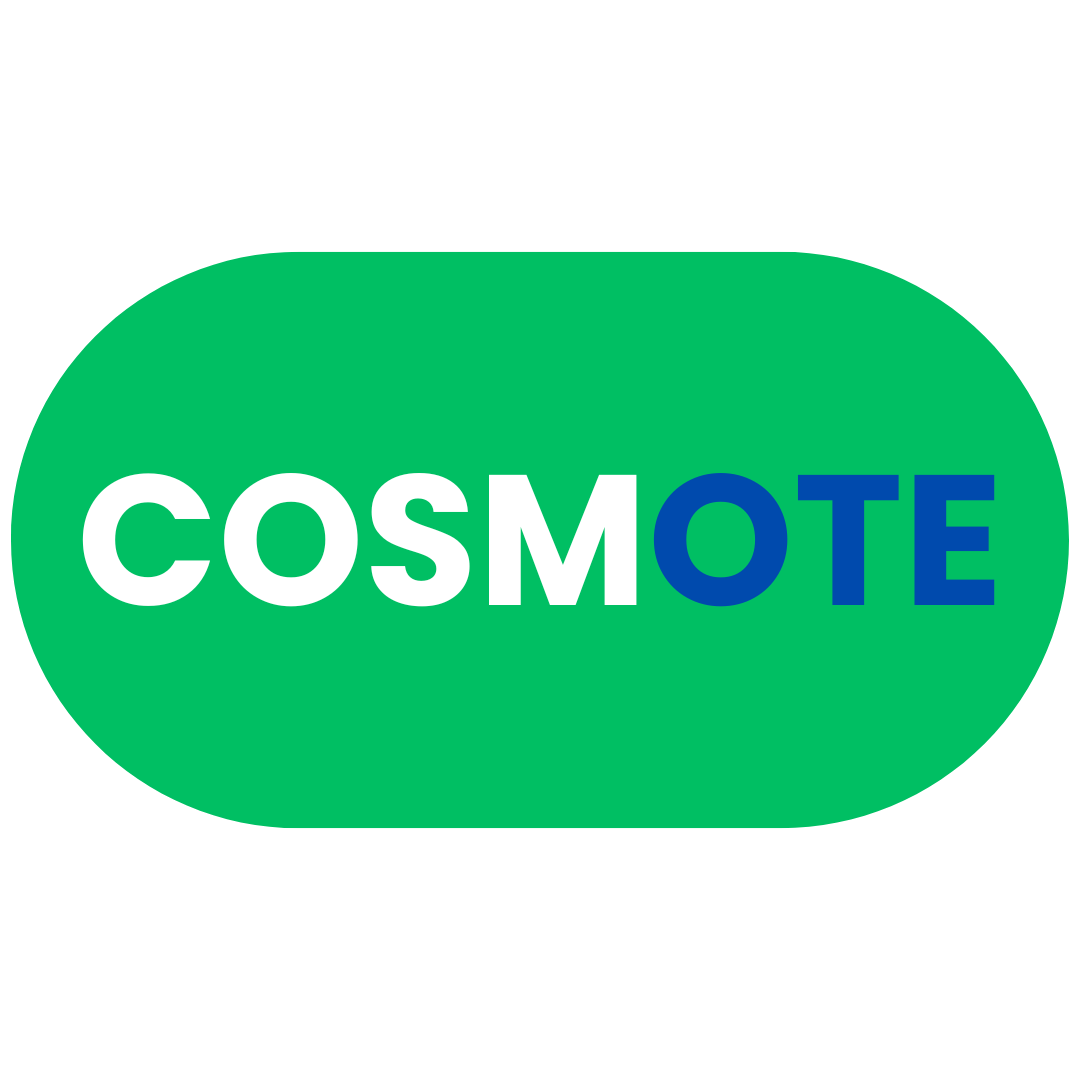
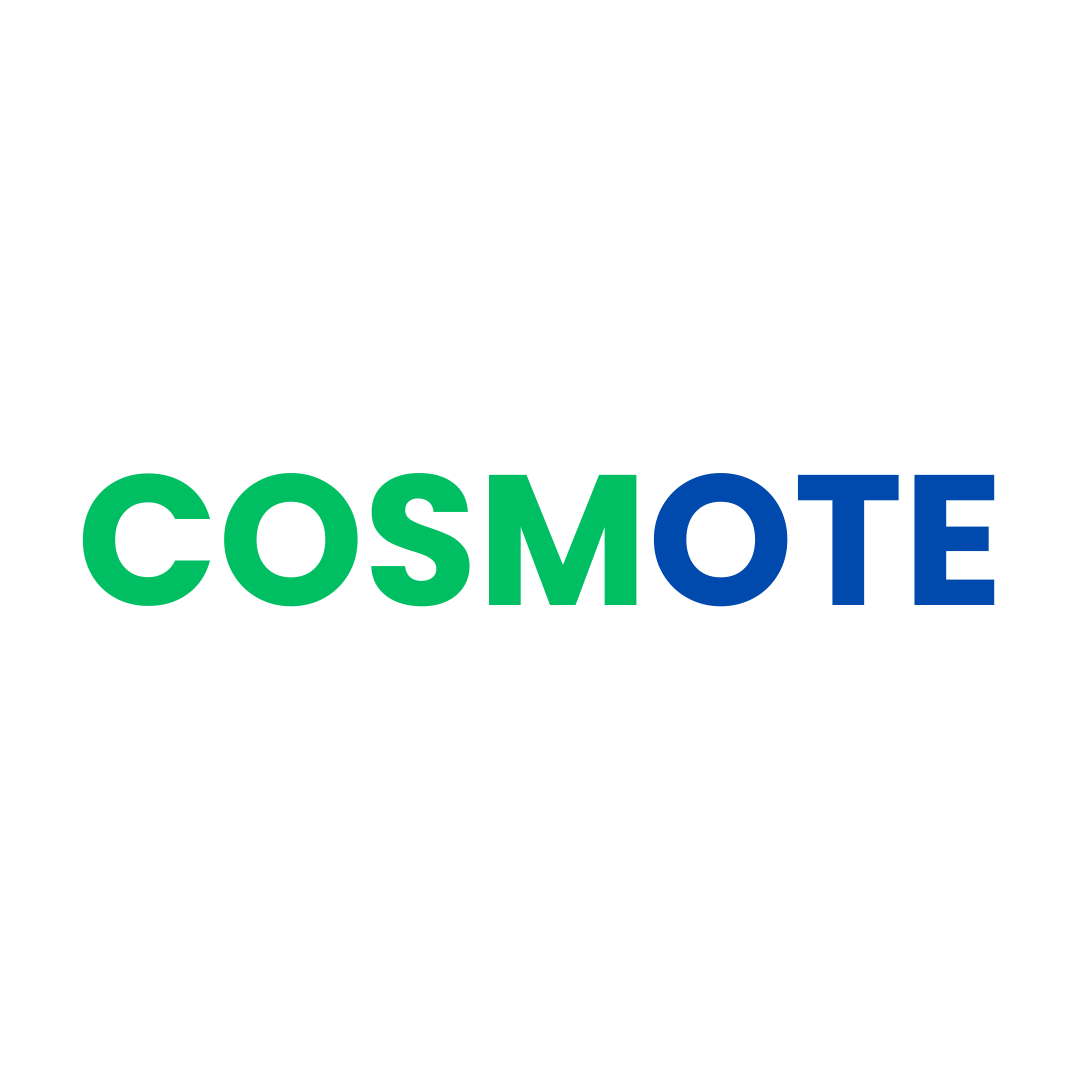
autoScrape

diff --git a/scripts/autoScrape.ts b/scripts/autoScrape.ts
@@ -1,0 +1,69 @@
+import * as TaskManager from 'expo-task-manager';
+import * as BackgroundFetch from 'expo-background-fetch';
+import * as SecureStore from 'expo-secure-store';
+import { deleteAllData, addBillingInfo } from './database';
+
+const BACKGROUND_TASK = 'refresh-billing-data';
+
+TaskManager.defineTask(BACKGROUND_TASK, async () => {
+  console.log('🔄 Running background task: refreshing billing data...');
+  
+  try {
+    const username = await SecureStore.getItemAsync('username');
+    const password = await SecureStore.getItemAsync('password');
+    const service = await SecureStore.getItemAsync('service');
+
+    if (username && password && service) {
+      console.log('🔑 Found credentials in SecureStore for servise:${service}');
+      
+      const response = await fetch('https://backend-billy.onrender.com/api/save', {
+        method: 'POST',
+        headers: {
+          'Content-Type': 'application/json',
+        },
+        body: JSON.stringify({
+          service,
+          username,
+          password,
+        }),
+      });
+
+      const data = await response.json();
+
+      if (response.ok && data.status === 'success') {
+        console.log('✅ Data refreshed successfully:', data);
+
+        await deleteAllData(); 
+
+        const billingData = JSON.stringify(data.data);
+        await addBillingInfo(service, username, null, billingData);
+
+        console.log('✅ Local DB updated with new billing data');
+      } else {
+        console.error('❌ Failed to refresh data:', data);
+      }
+    } else {
+      console.warn('⚠ No credentials found in SecureStore');
+    }
+  } catch (error) {
+    console.error('❌ Error in background task:', error);
+  }
+
+  return BackgroundFetch.BackgroundFetchResult.NewData;
+});
+
+export const registerBackgroundTask = async () => {
+  const status = await BackgroundFetch.getStatusAsync();
+
+  if (status === BackgroundFetch.BackgroundFetchStatus.Available) {
+    await BackgroundFetch.registerTaskAsync(BACKGROUND_TASK, {
+      minimumInterval: 5 * 60, 
+      stopOnTerminate: false, 
+      startOnBoot: true, 
+    });
+
+    console.log('✅ Background task registered');
+  } else {
+    console.log('⚠ Background fetch not available');
+  }
+};

diff --git a/scripts/database.ts b/scripts/database.ts
@@ -1,5 +1,8 @@
 import { openDatabaseSync } from 'expo-sqlite';
 import * as SecureStore from 'expo-secure-store';
+import * as BackgroundFetch from 'expo-background-fetch';
+
+const BACKGROUND_TASK = 'refresh-billing-data';
 
 
 const checkIfBillingExistsByConnection = async (service: string, username: string, connection: string): Promise<boolean> => {
@@ -268,5 +271,21 @@ export const deleteAllData = async () => {
     console.log('✅ All credentials deleted from Expo SecureStore.');
   } catch (error) {
     console.error('❌ Error deleting all data:', error);
+  }
+};
+
+export const registerBackgroundTask = async () => {
+  const status = await BackgroundFetch.getStatusAsync();
+
+  if (status === BackgroundFetch.BackgroundFetchStatus.Available) {
+    await BackgroundFetch.registerTaskAsync(BACKGROUND_TASK, {
+      minimumInterval: 60, 
+      stopOnTerminate: false, 
+      startOnBoot: true, 
+    });
+
+    console.log('✅ Background task registered');
+  } else {
+    console.log('⚠ Background fetch not available');
   }
 };

diff --git a/app/(tabs)/index.tsx b/app/(tabs)/index.tsx
@@ -6,6 +6,7 @@ import { useFocusEffect } from '@react-navigation/native';
 import styles from '@/app/styles/indexStyles';
 import CategorySelectionModal from '@/app/modals/categorySelectionModal'; 
 
+
 NetInfo.fetch().then(state => {
   console.log('Is connected?', state.isConnected);
 });
@@ -34,7 +35,7 @@ const cleanAmount = (amount: string): number => {
     const cleanedAmount = amount.replace(/[^\d,.]/g, '').replace(/,+/g, '.'); 
     return parseFloat(cleanedAmount) || 0; 
 };
-const cosmoteLogo = require('@/assets/images/cosmote2.png');
+const cosmoteLogo = require('@/assets/images/cosmote.png');
 const deiLogo = require('@/assets/images/dei.png');
 const deyapLogo = require('@/assets/images/eydap1.png');
 

diff --git a/app/_layout.tsx b/app/_layout.tsx
@@ -5,9 +5,21 @@ import * as SplashScreen from 'expo-splash-screen';
 import { useEffect } from 'react';
 import { useColorScheme } from '@/hooks/useColorScheme';
 
-import { setupDatabase } from '@/scripts/database';
 
-// Prevent the splash screen from auto-hiding before asset loading is complete.
+import { setupDatabase } from '@/scripts/database';
+import { registerBackgroundTask } from '@/scripts/autoScrape';
+
+export const startApp = async () => {
+    console.log('🚀 Starting app...');
+  
+    await setupDatabase();
+    await registerBackgroundTask();
+  
+    console.log('✅ ✅ ✅App started!');
+  };
+  
+startApp();
+
 SplashScreen.preventAutoHideAsync();
 
 export default function RootLayout() {

diff --git a/app/(tabs)/settings.tsx b/app/(tabs)/settings.tsx
@@ -60,7 +60,7 @@ const Settings = () => {
           <Text style={styles.optionText}>Επικοινωνία</Text>
         </TouchableOpacity>
       </View>
-      <Text style={styles.groupTitle}>Ρυθμίσεις</Text>
+      <Text style={styles.groupTitle}>Επαναφορά</Text>
       <View style={styles.groupContainer}>
           <TouchableOpacity style={styles.option} onPress={() => setDeleteModalVisible(true)}>
             <Image source={{ uri: 'image.png' }} style={styles.icon} />

diff --git a/app/modals/newAccountModal.tsx b/app/modals/newAccountModal.tsx
@@ -97,6 +97,7 @@ const NewAccount: React.FC<Props> = ({isVisible, onRequestClose}) => {
              
               await SecureStore.setItemAsync('username', username);
               await SecureStore.setItemAsync('password', password);
+              await SecureStore.setItemAsync('service', currentForm!);
   
               const billingData = JSON.stringify(response.data.data); 
   
